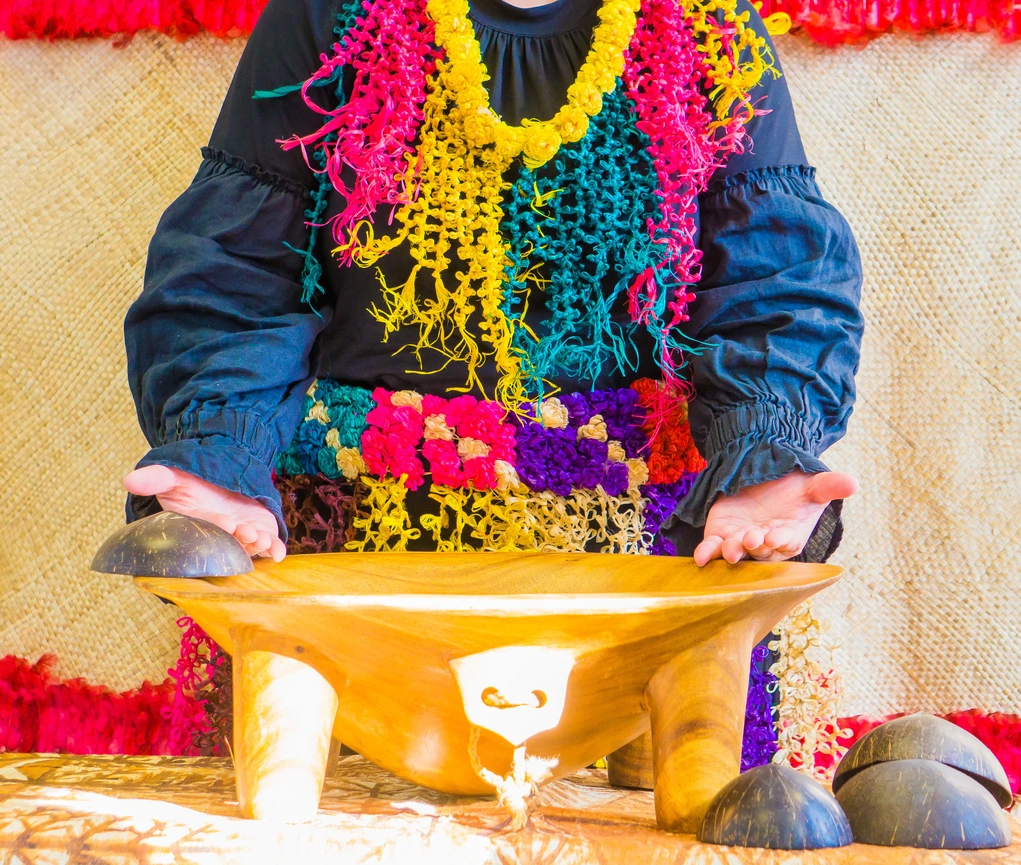
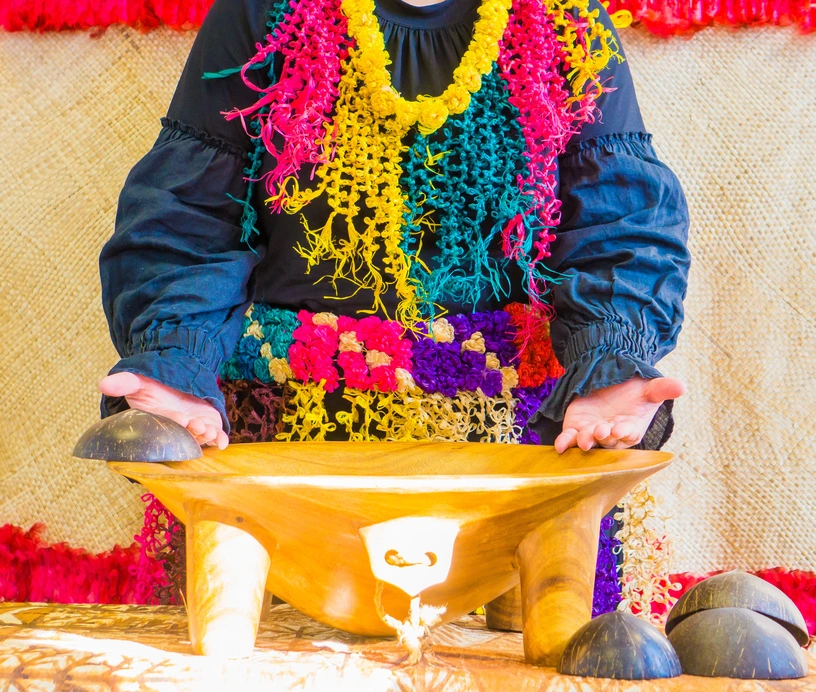
perf: optimize images

diff --git a/src/lib/constants.ts b/src/lib/constants.ts
@@ -1,27 +1,27 @@
 export const services = [
   {
-    image: "/services/navigation.png",
+    image: "/services/navigation.webp",
     name: "Navigation Services",
     description:
       "The Niuvaka Trust Pasifika Navigation Team provide support to Pacific peoples to improve equity of access and health outcomes and support the increase of Primary Care enrolment numbers.",
     id: "navigation-services",
   },
   {
-    image: "/services/ola.png",
+    image: "/services/ola.webp",
     name: "Ola Lelei & Kai Services",
     description:
       "Lorem ipsum dolor sit amet, consectetur adipiscing elit. Pellentesque elit sem, pharetra ut semper sit amet, consectetur vel lectus. Pellentesque maximus sed nunc eget dapibus. Maecenas hendrerit commodo ante, sed consectetur nunc ultrices at.\n\n Lorem ipsum dolor sit amet, consectetur adipiscing elit. Pellentesque elit sem, pharetra ut semper sit amet, consectetur vel lectus. Pellentesque maximus sed nunc eget dapibus. Maecenas hendrerit commodo ante, sed consectetur nunc ultrices at.",
     id: "ola-lelei-and-kai-services",
   },
   {
-    image: "/services/outreach.png",
+    image: "/services/outreach.webp",
     name: "Outreach Services",
     description:
       "Lorem ipsum dolor sit amet, consectetur adipiscing elit. Pellentesque elit sem, pharetra ut semper sit amet, consectetur vel lectus. Pellentesque maximus sed nunc eget dapibus. Maecenas hendrerit commodo ante, sed consectetur nunc ultrices at.\n\n Lorem ipsum dolor sit amet, consectetur adipiscing elit. Pellentesque elit sem, pharetra ut semper sit amet, consectetur vel lectus. Pellentesque maximus sed nunc eget dapibus. Maecenas hendrerit commodo ante, sed consectetur nunc ultrices at.",
     id: "outreach-services",
   },
   {
-    image: "/services/social.png",
+    image: "/services/social.webp",
     name: "Social Services",
     description:
       "Lorem ipsum dolor sit amet, consectetur adipiscing elit. Pellentesque elit sem, pharetra ut semper sit amet, consectetur vel lectus. Pellentesque maximus sed nunc eget dapibus. Maecenas hendrerit commodo ante, sed consectetur nunc ultrices at.\n\n Lorem ipsum dolor sit amet, consectetur adipiscing elit. Pellentesque elit sem, pharetra ut semper sit amet, consectetur vel lectus. Pellentesque maximus sed nunc eget dapibus. Maecenas hendrerit commodo ante, sed consectetur nunc ultrices at.",
@@ -31,30 +31,30 @@ export const services = [
 
 export const values = [
   {
-    image: "/values/family.png",
+    image: "/values/family.webp",
     name: "Family",
     description:
       "Cherishing family as the centre and foundation for belonging and identity",
   },
   {
-    image: "/values/faithfulness.png",
+    image: "/values/faithfulness.webp",
     name: "Faithfulness",
     description: "Being principled, devoted, dependable, and reliable",
   },
   {
-    image: "/values/service.png",
+    image: "/values/service.webp",
     name: "Service",
     description:
       "Service for the benefit and good of all enacting kindness and thoughtfulness",
   },
   {
-    image: "/values/relationships.png",
+    image: "/values/relationships.webp",
     name: "Relationships",
     description:
       "Relationships are nurtured, cared for, and honoured for shared mutual gain and success",
   },
   {
-    image: "/values/respect.png",
+    image: "/values/respect.webp",
     name: "Respect",
     description:
       "Paying regard and respect valuing everyone and every situation",
@@ -63,37 +63,37 @@ export const values = [
 
 export const focusAreas = [
   {
-    image: "/focus_areas/cultural_identity.png",
+    image: "/focus_areas/cultural_identity.webp",
     name: "Cultural Identity",
     description:
       "Lorem ipsum dolor sit amet, consectetur adipiscing elit. Pellentesque elit sem, pharetra ut semper sit amet, consectetur vel lectus. Pellentesque maximus sed nunc eget dapibus. Maecenas hendrerit commodo ante, sed consectetur nunc ultrices at.\n\n Lorem ipsum dolor sit amet, consectetur adipiscing elit. Pellentesque elit sem, pharetra ut semper sit amet, consectetur vel lectus. Pellentesque maximus sed nunc eget dapibus. Maecenas hendrerit commodo ante, sed consectetur nunc ultrices at.",
   },
   {
-    image: "/focus_areas/prosperity.png",
+    image: "/focus_areas/prosperity.webp",
     name: "Prosperity",
     description:
       "Lorem ipsum dolor sit amet, consectetur adipiscing elit. Pellentesque elit sem, pharetra ut semper sit amet, consectetur vel lectus. Pellentesque maximus sed nunc eget dapibus. Maecenas hendrerit commodo ante, sed consectetur nunc ultrices at.\n\n Lorem ipsum dolor sit amet, consectetur adipiscing elit. Pellentesque elit sem, pharetra ut semper sit amet, consectetur vel lectus. Pellentesque maximus sed nunc eget dapibus. Maecenas hendrerit commodo ante, sed consectetur nunc ultrices at.",
   },
   {
-    image: "/focus_areas/wellbeing.png",
+    image: "/focus_areas/wellbeing.webp",
     name: "Wellbeing",
     description:
       "Lorem ipsum dolor sit amet, consectetur adipiscing elit. Pellentesque elit sem, pharetra ut semper sit amet, consectetur vel lectus. Pellentesque maximus sed nunc eget dapibus. Maecenas hendrerit commodo ante, sed consectetur nunc ultrices at.\n\n Lorem ipsum dolor sit amet, consectetur adipiscing elit. Pellentesque elit sem, pharetra ut semper sit amet, consectetur vel lectus. Pellentesque maximus sed nunc eget dapibus. Maecenas hendrerit commodo ante, sed consectetur nunc ultrices at.",
   },
   {
-    image: "/focus_areas/connectivity.png",
+    image: "/focus_areas/connectivity.webp",
     name: "Connectivity",
     description:
       "Lorem ipsum dolor sit amet, consectetur adipiscing elit. Pellentesque elit sem, pharetra ut semper sit amet, consectetur vel lectus. Pellentesque maximus sed nunc eget dapibus. Maecenas hendrerit commodo ante, sed consectetur nunc ultrices at.\n\n Lorem ipsum dolor sit amet, consectetur adipiscing elit. Pellentesque elit sem, pharetra ut semper sit amet, consectetur vel lectus. Pellentesque maximus sed nunc eget dapibus. Maecenas hendrerit commodo ante, sed consectetur nunc ultrices at.",
   },
   {
-    image: "/focus_areas/leadership.png",
+    image: "/focus_areas/leadership.webp",
     name: "Leadership",
     description:
       "Lorem ipsum dolor sit amet, consectetur adipiscing elit. Pellentesque elit sem, pharetra ut semper sit amet, consectetur vel lectus. Pellentesque maximus sed nunc eget dapibus. Maecenas hendrerit commodo ante, sed consectetur nunc ultrices at.\n\n Lorem ipsum dolor sit amet, consectetur adipiscing elit. Pellentesque elit sem, pharetra ut semper sit amet, consectetur vel lectus. Pellentesque maximus sed nunc eget dapibus. Maecenas hendrerit commodo ante, sed consectetur nunc ultrices at.",
   },
   {
-    image: "/focus_areas/young_people.png",
+    image: "/focus_areas/young_people.webp",
     name: "Young People",
     description:
       "Lorem ipsum dolor sit amet, consectetur adipiscing elit. Pellentesque elit sem, pharetra ut semper sit amet, consectetur vel lectus. Pellentesque maximus sed nunc eget dapibus. Maecenas hendrerit commodo ante, sed consectetur nunc ultrices at.\n\n Lorem ipsum dolor sit amet, consectetur adipiscing elit. Pellentesque elit sem, pharetra ut semper sit amet, consectetur vel lectus. Pellentesque maximus sed nunc eget dapibus. Maecenas hendrerit commodo ante, sed consectetur nunc ultrices at.",
@@ -252,10 +252,10 @@ export const events = [
 ];
 
 export const partners = [
-  "/partners/1.png",
-  "/partners/2.png",
+  "/partners/1.webp",
+  "/partners/2.webp",
   "/partners/3.webp",
-  "/partners/4.png",
-  "/partners/5.png",
-  "/partners/6.png",
+  "/partners/4.webp",
+  "/partners/5.webp",
+  "/partners/6.webp",
 ];

diff --git a/src/pages/index.tsx b/src/pages/index.tsx
@@ -24,16 +24,17 @@ export default function Home() {
         <section className="mt-36">
           <div className="container mx-auto p-0">
             <img
-              src="/Ocean Rarotonga.jpg"
+              src="/Ocean Rarotonga.webp"
               alt="hero"
               className="aspect-[2/1] object-cover"
+              loading="eager"
             />
           </div>
         </section>
 
         <section>
           <div className="container mx-auto p-0">
-            <img src="/texts.webp" alt="texts" />
+            <img src="/texts.webp" alt="texts" className="w-full" />
           </div>
         </section>
 
